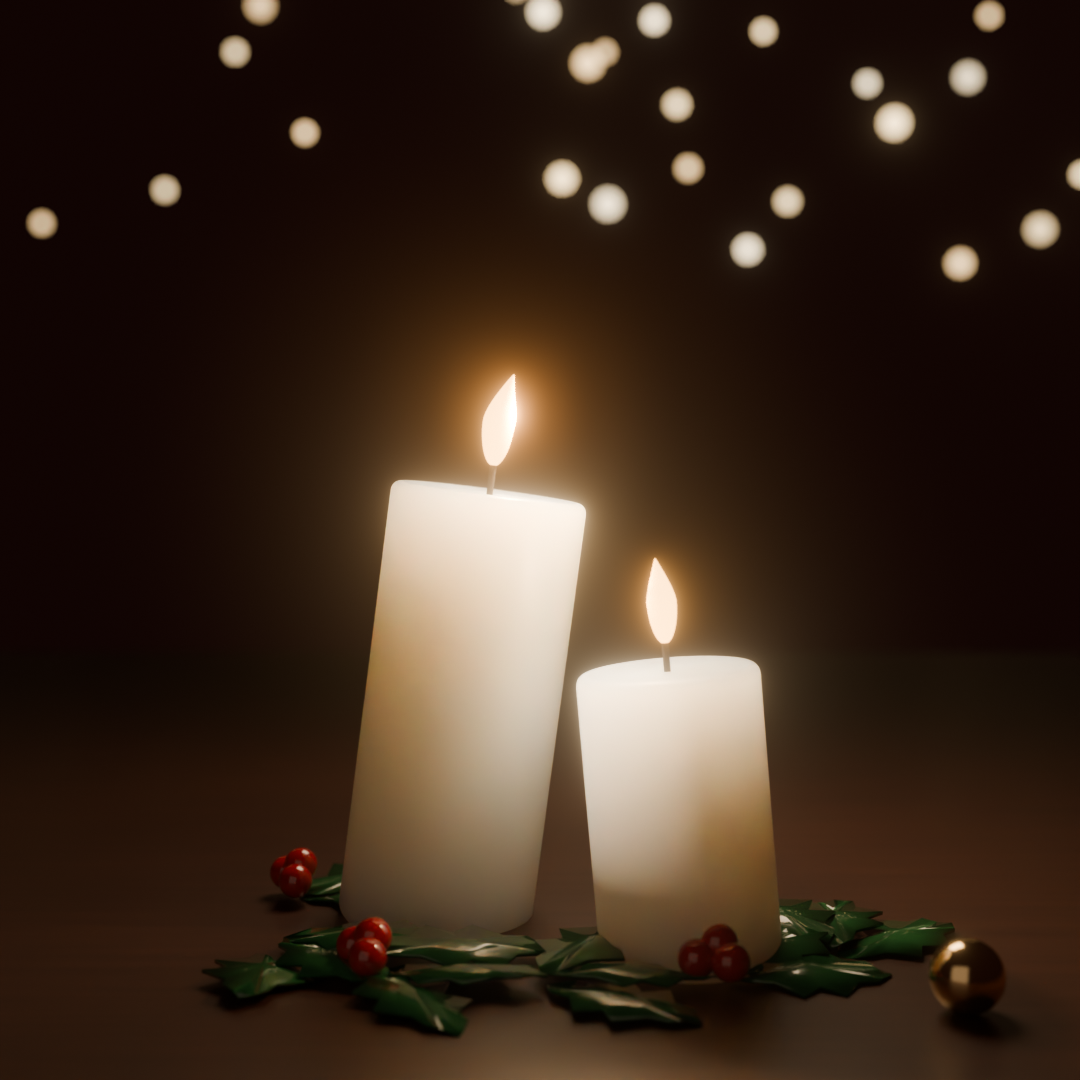
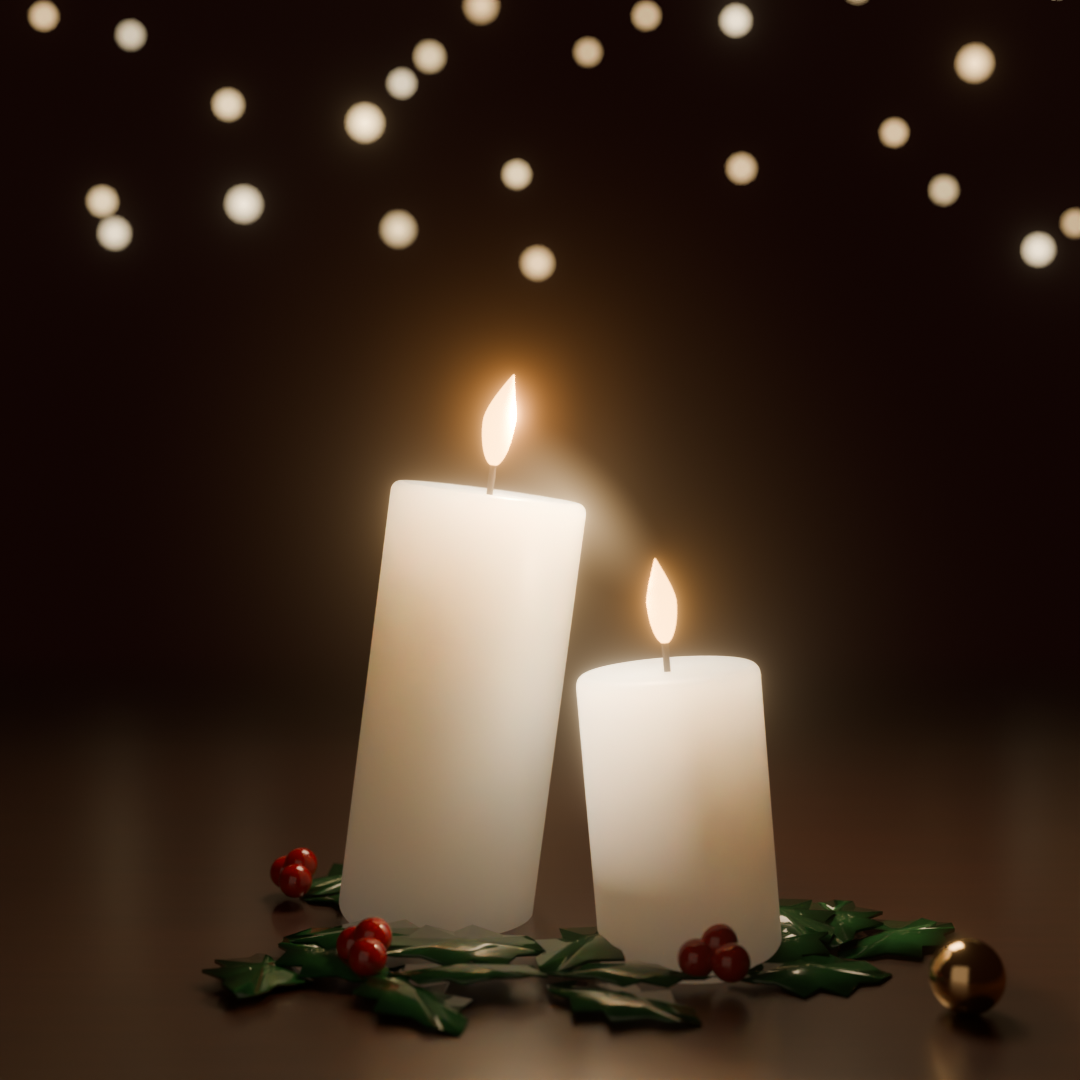
Blind Ant Cards: Christmas With Love round 3
The shared light is now visible as a soft warm haze from the tall flame
to the small one; the blurred lights are balanced; the far table melts
into the dark with no line; the small candle's far side stays warm.
Review of round 3 against Sloppy Jo.

diff --git a/blind-ant/studio/cards/designs/christmas-with-love/scene.py b/blind-ant/studio/cards/designs/christmas-with-love/scene.py
@@ -63,7 +63,9 @@ def alabaster(name, h, glow, r=0.1, side_glow=0.0):
     mul = nt.nodes.new('ShaderNodeMath'); mul.operation = 'MULTIPLY'; mul.inputs[1].default_value = glow
     nt.links.new(tc.outputs['Object'], sep.inputs['Vector']); nt.links.new(sep.outputs['Z'], mr.inputs['Value'])
     nt.links.new(mr.outputs['Result'], pw.inputs[0]); nt.links.new(pw.outputs['Value'], mul.inputs[0])
-    total = mul.outputs['Value']
+    floor = nt.nodes.new('ShaderNodeMath'); floor.operation = 'ADD'; floor.inputs[1].default_value = 0.08
+    nt.links.new(mul.outputs['Value'], floor.inputs[0])   # a little inner warmth everywhere, so shaded wax never goes grey
+    total = floor.outputs['Value']
     if side_glow:
         # The shared light, stylised: the side facing the tall candle (local -X) glows warm, strongest high up.
         mx = nt.nodes.new('ShaderNodeMapRange')
@@ -92,9 +94,34 @@ ramp = nt.nodes.new('ShaderNodeValToRGB')
 ramp.color_ramp.elements[0].color = (0.028, 0.010, 0.007, 1)
 ramp.color_ramp.elements[1].color = (0.085, 0.032, 0.020, 1)
 nt.links.new(tc.outputs['Object'], mp.inputs['Vector']); nt.links.new(mp.outputs['Vector'], nz.inputs['Vector'])
-nt.links.new(nz.outputs['Fac'], ramp.inputs['Fac']); nt.links.new(ramp.outputs['Color'], p.inputs['Base Color'])
-p.inputs['Roughness'].default_value = 0.42
-p.inputs['Coat Weight'].default_value = 0.12
+nt.links.new(nz.outputs['Fac'], ramp.inputs['Fac'])
+sepw = nt.nodes.new('ShaderNodeSeparateXYZ'); geo = nt.nodes.new('ShaderNodeNewGeometry')
+nt.links.new(geo.outputs['Position'], sepw.inputs['Vector'])
+fade = nt.nodes.new('ShaderNodeMapRange')            # 1 near the candles, 0 far behind
+fade.inputs['From Min'].default_value = 0.5; fade.inputs['From Max'].default_value = 2.6
+fade.inputs['To Min'].default_value = 1.0; fade.inputs['To Max'].default_value = 0.35
+nt.links.new(sepw.outputs['Y'], fade.inputs['Value'])
+darken = nt.nodes.new('ShaderNodeMix'); darken.data_type = 'RGBA'; darken.blend_type = 'MULTIPLY'
+darken.inputs['Factor'].default_value = 1.0
+nt.links.new(ramp.outputs['Color'], darken.inputs['A'])
+fcol = nt.nodes.new('ShaderNodeCombineXYZ')
+for k in ('X', 'Y', 'Z'): nt.links.new(fade.outputs['Result'], fcol.inputs[k])
+nt.links.new(fcol.outputs['Vector'], darken.inputs['B'])
+nt.links.new(darken.outputs['Result'], p.inputs['Base Color'])
+rough = nt.nodes.new('ShaderNodeMapRange')           # and rougher with distance, so it stops reflecting the far lights
+rough.inputs['From Min'].default_value = 0.5; rough.inputs['From Max'].default_value = 2.2
+rough.inputs['To Min'].default_value = 0.42; rough.inputs['To Max'].default_value = 0.95
+nt.links.new(sepw.outputs['Y'], rough.inputs['Value']); nt.links.new(rough.outputs['Result'], p.inputs['Roughness'])
+nt.links.new(fade.outputs['Result'], p.inputs['Coat Weight'])
+# Far away, the table melts into the background (turns transparent) instead of ending in an edge or a dark band.
+melt = nt.nodes.new('ShaderNodeMapRange')
+melt.inputs['From Min'].default_value = 1.2; melt.inputs['From Max'].default_value = 2.6
+nt.links.new(sepw.outputs['Y'], melt.inputs['Value'])
+clear = nt.nodes.new('ShaderNodeBsdfTransparent'); mix = nt.nodes.new('ShaderNodeMixShader')
+wout = [n for n in nt.nodes if n.type == 'OUTPUT_MATERIAL'][0]
+nt.links.new(melt.outputs['Result'], mix.inputs['Fac'])
+nt.links.new(p.outputs['BSDF'], mix.inputs[1]); nt.links.new(clear.outputs[0], mix.inputs[2])
+nt.links.new(mix.outputs[0], wout.inputs['Surface'])
 p.inputs['Coat Roughness'].default_value = 0.25
 
 def link(obj, m):
@@ -118,7 +145,7 @@ def bend(obj, amount):
             v.co.x += amount * t * t
 
 # ---------- table ----------
-bpy.ops.mesh.primitive_plane_add(size=4, location=(0, 0.6, 0))   # ends in the dark, so the far table doesn't haze
+bpy.ops.mesh.primitive_plane_add(size=12, location=(0, 4, 0))   # fades to black with distance (see Wood), so it has no visible edge
 link(bpy.context.object, WOOD)
 
 # ---------- candles ----------
@@ -163,6 +190,43 @@ candle('Tall', (-0.13, 0.12), 0.54, 0.118, tilt_deg=7.5, glow=0.9, flame_bend=0.
 candle('Small', (0.17, -0.05), 0.34, 0.102, tilt_deg=-5.0, glow=0.9, flame_bend=-0.2, light_w=6, flame_scale=0.92, side_glow=2.2)
 
 # The shared light is in the small candle's wax (side_glow): the side facing the tall one glows warm.
+
+
+# The shared light, made visible: a soft warm haze in the air from the tall flame to the small one.
+# It's a camera-only card (it lights nothing), shaped as a soft ellipse along the line between the flames.
+def shared_glow():
+    a = Vector((-0.06, 0.12, 0.60)); b = Vector((0.14, -0.05, 0.40))
+    mid = (a + b) / 2
+    bpy.ops.mesh.primitive_plane_add(size=1, location=mid)
+    g = bpy.context.object; g.name = 'SharedGlow'
+    d = b - a
+    span = math.hypot(d.x, d.z)
+    g.scale = (span * 1.05, span * 0.45, 1)
+    g.rotation_euler = (math.radians(90), -math.atan2(d.z, d.x), 0)   # stand it up facing the camera, along the line
+    m = bpy.data.materials.new('SharedGlow'); m.use_nodes = True; nt = m.node_tree
+    for n in list(nt.nodes):
+        if n.type != 'OUTPUT_MATERIAL': nt.nodes.remove(n)
+    out = [n for n in nt.nodes if n.type == 'OUTPUT_MATERIAL'][0]
+    tc = nt.nodes.new('ShaderNodeTexCoord')
+    grad = nt.nodes.new('ShaderNodeTexGradient'); grad.gradient_type = 'SPHERICAL'
+    sc = nt.nodes.new('ShaderNodeMapping'); sc.inputs['Scale'].default_value = (2.0, 2.0, 2.0)
+    nt.links.new(tc.outputs['Object'], sc.inputs['Vector']); nt.links.new(sc.outputs['Vector'], grad.inputs['Vector'])
+    pw = nt.nodes.new('ShaderNodeMath'); pw.operation = 'POWER'; pw.inputs[1].default_value = 2.0
+    nt.links.new(grad.outputs['Fac'], pw.inputs[0])
+    st = nt.nodes.new('ShaderNodeMath'); st.operation = 'MULTIPLY'; st.inputs[1].default_value = GLOW_STRENGTH
+    nt.links.new(pw.outputs['Value'], st.inputs[0])
+    em = nt.nodes.new('ShaderNodeEmission'); em.inputs['Color'].default_value = (1.0, 0.66, 0.32, 1)
+    nt.links.new(st.outputs['Value'], em.inputs['Strength'])
+    tr = nt.nodes.new('ShaderNodeBsdfTransparent')
+    add = nt.nodes.new('ShaderNodeAddShader')
+    nt.links.new(tr.outputs[0], add.inputs[0]); nt.links.new(em.outputs[0], add.inputs[1])
+    nt.links.new(add.outputs[0], out.inputs['Surface'])
+    g.data.materials.append(m)
+    for attr in ('visible_diffuse', 'visible_glossy', 'visible_transmission', 'visible_volume_scatter', 'visible_shadow'):
+        setattr(g, attr, False)
+
+GLOW_STRENGTH = 0.7
+shared_glow()
 
 # ---------- holly: a lacquered crescent in front of the candles, wholly in frame ----------
 def holly_leaf(length=0.2, width=0.085, spikes=4):
@@ -216,8 +280,9 @@ bpy.ops.mesh.primitive_uv_sphere_add(segments=64, ring_count=32, radius=0.038, l
 b = bpy.context.object; link(b, GOLD); smooth(b)
 
 # ---------- soft golden lights far behind, gathered in the top third behind the headline ----------
-for i in range(80):
-    x = random.uniform(-3.4, 3.4); y = random.uniform(5.0, 7.5)
+N_BOKEH = 80
+for i in range(N_BOKEH):
+    x = -3.4 + 6.8 * (i + random.random()) / N_BOKEH; y = random.uniform(5.0, 7.5)   # evenly spread left to right
     z = 1.2 + 2.6 * (random.random() ** 0.6)          # weighted upwards, thinning towards the flames
     bpy.ops.mesh.primitive_uv_sphere_add(segments=16, ring_count=8, radius=random.uniform(0.025, 0.055), location=(x, y, z))
     s = bpy.context.object

diff --git a/blind-ant/studio/cards/designs/christmas-with-love/review-r3-sloppy-jo.md b/blind-ant/studio/cards/designs/christmas-with-love/review-r3-sloppy-jo.md
@@ -1,0 +1,40 @@
+# Christmas With Love, round 3: review against the Sloppy Jo vision
+
+Reviewed by Claude on Thursday 5 November 2026, from the final render (`master.png`, 1080 × 1080, 160 samples). Not yet approved: only Charli-Jo approves.
+
+Round 3 worked on the four points left by round 2.
+
+## What changed, and what it looks like now
+
+1. **The shared light is visible.** A soft, warm, amber haze hangs in the air, flowing from the tall candle's flame down and to the right towards the small candle's flame, like light being passed across. It lights nothing (it's a camera-only glow), so it doesn't disturb the rest of the lighting.
+2. **The blurred lights are balanced.** The cream-gold discs are spread evenly across the top third, left and right, behind where the headline goes.
+3. **No table line.** The table now fades softly into the dark background, with no edge and no band.
+4. **The small candle stays warm.** Its far side is soft amber-ivory, no longer greyish.
+
+Unchanged from round 2: the tall candle leans in from behind, its flame bending towards the small one; ivory alabaster wax; a crescent of lacquered holly with three ruby berry clusters; one gold bauble at the front right; deep oxblood-black.
+
+**Alt text (unchanged and still true):** Two lit ivory candles lean towards each other on a dark wooden table, the taller one just behind as if sheltering the smaller and sharing its light, among glossy holly leaves, red berries and a small gold bauble, with soft golden lights blurred in the darkness above.
+
+## The seven principles
+
+1. Design before realism: passes. The haze between the flames is impossible, and deliberately so.
+2. Elegant geometry: passes.
+3. Rich materials: passes.
+4. Expressive lighting: passes. The light now tells the story.
+5. Deliberate colour: passes. Ivory and amber-gold candlelight on deep oxblood-black, with deep holly green and ruby berries as the only accents.
+6. Compositional discipline: passes. The focal point is the tall flame and the haze it sends to the smaller one. The top third is calm and balanced.
+7. Exceptional finish: passes at the intended size, about 6 cm wide on a phone.
+
+## The five tests
+
+- Please: yes.
+- Inform: yes, Christmas and love.
+- Fit the fiction: yes. It's a gesture of care, which suits "With Love at Christmas".
+- Impress: yes at card size. Up close, the holly is good rather than exquisite.
+- Linger: to be judged across the seven.
+
+## What I'd still change, if there's another round
+
+- The haze could be mistaken for a smudge by someone who doesn't know the idea. A sighted person's first description will tell us whether it reads as shared light.
+- One berry cluster presses against the small candle's base. It could sit a little further out.
+- The holly leaves are all much the same size. More variety would make them feel more crafted.

diff --git a/blind-ant/studio/cards/designs/christmas-with-love/README.md b/blind-ant/studio/cards/designs/christmas-with-love/README.md
@@ -4,12 +4,13 @@
 - **Description** (written first; the scene is built to match it, and it is the card's alt text):
   Two lit ivory candles lean towards each other on a dark wooden table, the taller one just behind as if sheltering the smaller and sharing its light, among glossy holly leaves, red berries and a small gold bauble, with soft golden lights blurred in the darkness above.
 
-## Intent (Sloppy Jo, round 2, 5 November 2026)
+## Intent (Sloppy Jo, rounds 2 and 3, 5 November 2026)
 
 - **The love:** the two candles lean in together. The taller one stands slightly further back, as if protecting the smaller one, and gives it some of its light: its flame bends towards the small one and its warm light falls on the small candle's near side. (Charli-Jo's idea, 5 November 2026.)
 - **Palette, in one sentence:** ivory and amber-gold candlelight on deep oxblood-black, with deep holly green and ruby berries as the only accents.
 - **Focal point:** the taller flame bending towards the smaller one.
 - **Treatment:** Jewel Box. The wax is luminous alabaster that stays ivory all the way down, the holly is glossy and lacquered in a crescent wholly in the frame, there's one true-gold bauble, and the lighting is theatrical, from the flames themselves. The blurred lights gather in the top third, behind the headline.
+- Round 3 (5 November) made the shared light visible as a soft warm haze from the tall flame to the small one, balanced the blurred lights, melted the far table into the dark, and kept the small candle's far side warm.
 - Round 1 (4 November) was reviewed against Sloppy Jo on 5 November: competent, not yet convincing (muddy wax, an under-lit scene, stray pink, holly cut off at the bottom).
 
 ## Files
